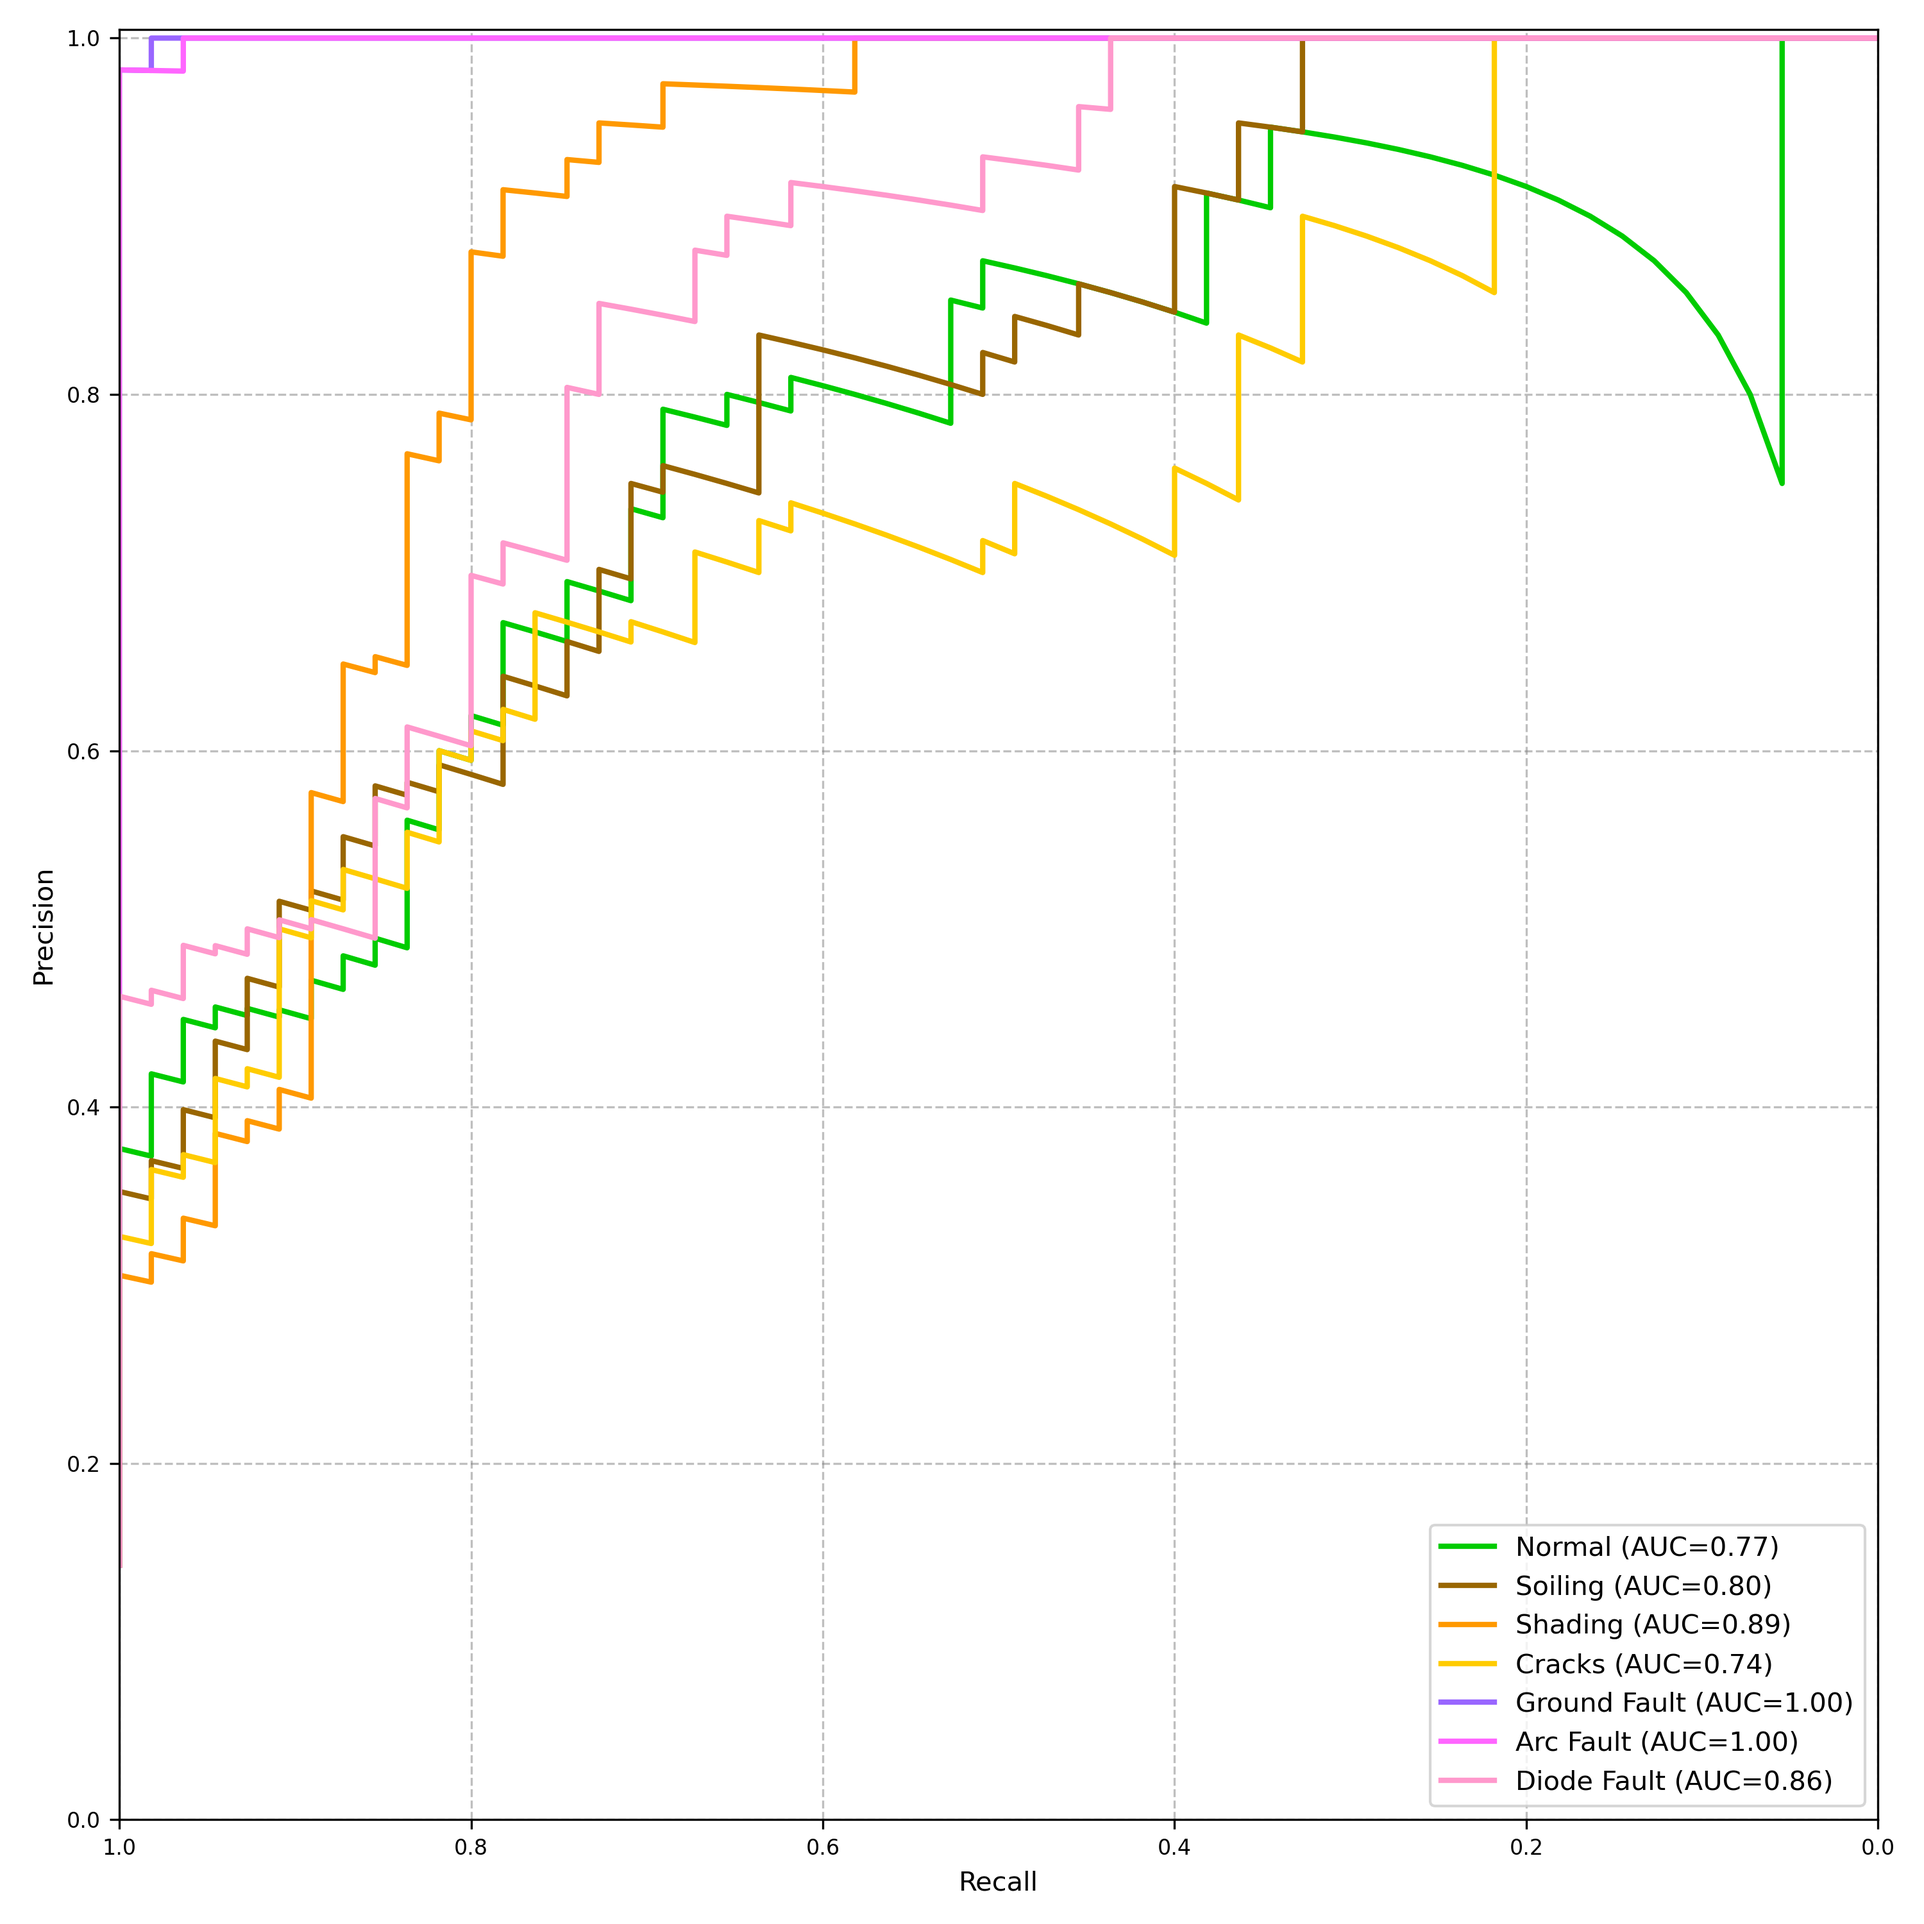
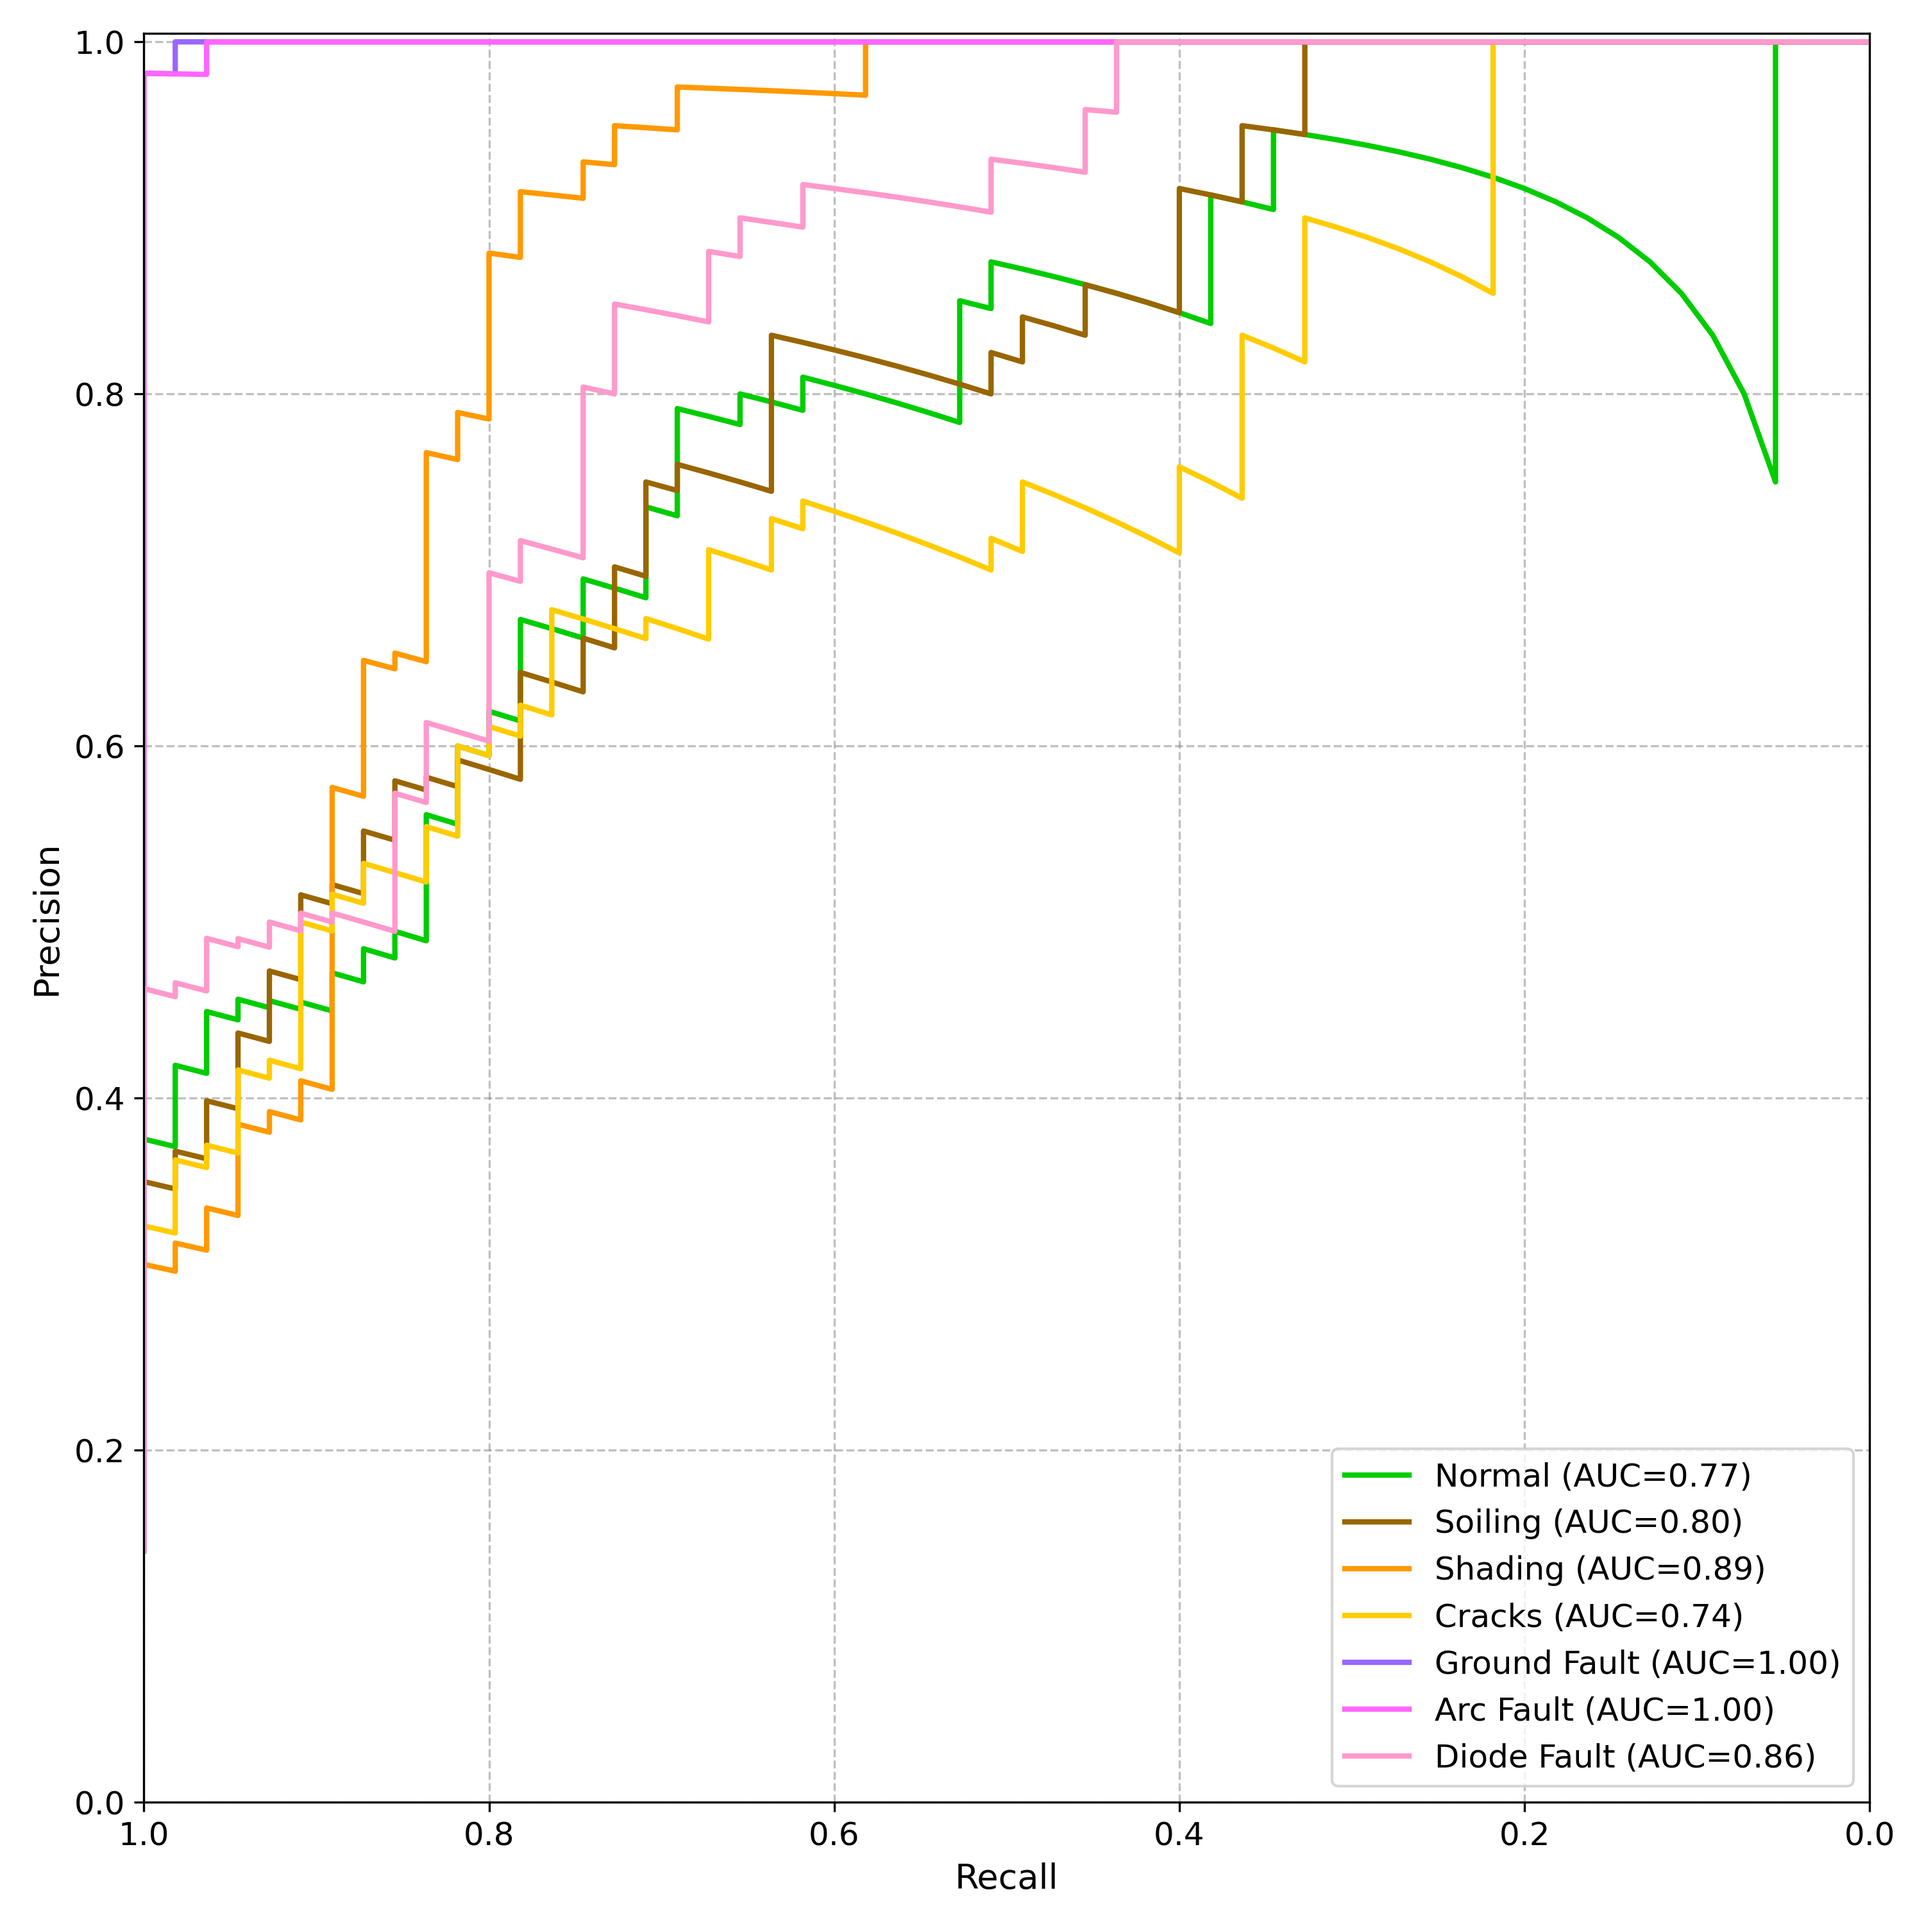
Update

diff --git a/plot_training.py b/plot_training.py
@@ -26,7 +26,7 @@ def plot_confusion_matrix_combined(set_name, season_name, y_true, y_pred, image_
 
     Notes:
         - Each cell shows both count and percentage (Count\n(Percentage%)).
-        - Heatmap uses a white/grey/black colormap, with values ranging from 0% to 100%.
+        - Heatmap uses a Blues colormap.
         - The plot is saved as a high-resolution PNG in the specified folder.
     """
     
@@ -59,35 +59,36 @@ def plot_confusion_matrix_combined(set_name, season_name, y_true, y_pred, image_
         cm_percentage,          # 2D array or DataFrame to visualize as a heatmap
         annot=annotations,      # Custom text annotations inside each cell (showing Count and Percentage)
         fmt='',                 # Format string for annotations
-        cmap=cmap,              # Custom colormap defining color gradient (black → gray → white)
+        cmap=cmap,              # Custom colormap defining color gradient
         xticklabels=classes,    # Labels for the x-axis (Predicted classes)
         yticklabels=classes,    # Labels for the x-axis (Predicted classes)
         cbar=True,              # Display the grayscale bar showing mapping between intensity and percentage values
-        vmin=0,                 # Minimum value for color scale (0% → black)
-        vmax=100,               # Maximum value for color scale (100% → white)
+        vmin=0,                 # Minimum value for color scale)
+        vmax=100,               # Maximum value for color scale 
         linewidths=0.2,         # Width of the grid lines separating cells
         linecolor='black',      # Color of the grid lines separating cells
-        ax=ax                   # Matplotlib Axes object to draw the heatmap on (ensures full control over styling)
+        ax=ax,                  # Matplotlib Axes object to draw the heatmap on (ensures full control over styling)
+        annot_kws={"size": 12}  # Font size for annotations
     )
 
     # Customize the scale bar appearance
     cbar = ax.collections[0].colorbar
     # Set color of tick marks and numeric labels
-    cbar.ax.yaxis.set_tick_params(color='black', labelcolor='black')
+    cbar.ax.yaxis.set_tick_params(labelsize=12, color='black', labelcolor='black')
     # Set the color and label text of the colorbar border
     cbar.outline.set_edgecolor('black')
     # Add label text to the colorbar 
-    cbar.set_label('Percentage (%)', color='black')  # label da colorbar
+    cbar.set_label('Percentage (%)', color='black', fontsize=13)  # label da colorbar
 
     # Set plot title and axis labels
     # ax.set_title(f'Confusion Matrix, {season_name}, {set_name} Set\n(Values: Count over Percentage)',
-    #              color='white', fontsize=14)
-    ax.set_ylabel('True Label', color='black')
-    ax.set_xlabel('Predicted Label', color='black')
+    #              color='black', fontsize=14)
+    ax.set_ylabel('True Label', color='black', fontsize=13)
+    ax.set_xlabel('Predicted Label', color='black', fontsize=13)
 
     # Tick labels
-    plt.setp(ax.get_xticklabels(), fontsize=8, rotation=0, ha='center')
-    plt.setp(ax.get_yticklabels(), fontsize=8, rotation=90)
+    plt.setp(ax.get_xticklabels(), fontsize=12, rotation=0, ha='center')
+    plt.setp(ax.get_yticklabels(), fontsize=12, rotation=90)
     ax.tick_params(axis='x', colors='black')
     ax.tick_params(axis='y', colors='black')
 
@@ -138,20 +139,20 @@ def plot_class_accuracy(class_acc, classes, title, output_file):
     for bar, acc in zip(bars, class_acc):
         height = bar.get_height()
         ax.text(bar.get_x() + bar.get_width() / 2, height + 1, f"{acc:.1f}%",
-                ha='center', va='bottom', color='black', fontsize=10)
+                ha='center', va='bottom', color='black', fontsize=12)
 
     # Calculate mean accuracy and plot a horizontal dashed line
     mean_acc = np.mean(class_acc)
     ax.axhline(mean_acc, color='red', linestyle='--', linewidth=1.2, label=f"Mean accuracy = {mean_acc:.1f}%")
 
     # Set axis labels and title
-    ax.set_xlabel('Label', color='black')
-    ax.set_ylabel('Accuracy (%)', color='black')
+    ax.set_xlabel('Label', color='black', fontsize=12)
+    ax.set_ylabel('Accuracy (%)', color='black', fontsize=12)
     # ax.set_title(title, color='black')
 
     # Customize tick labels
-    plt.setp(ax.get_xticklabels(), fontsize=8, rotation=0, ha='center')
-    plt.setp(ax.get_yticklabels(), fontsize=8, rotation=0)
+    plt.setp(ax.get_xticklabels(), fontsize=12, rotation=0, ha='center')
+    plt.setp(ax.get_yticklabels(), fontsize=12, rotation=0)
     ax.tick_params(axis='x', colors='black')
     ax.tick_params(axis='y', colors='black')
 
@@ -159,7 +160,7 @@ def plot_class_accuracy(class_acc, classes, title, output_file):
     ax.grid(True, color='gray', linestyle='--', linewidth=0.5, axis='y')
 
     # Add legend with automatic positioning
-    legend = ax.legend(fontsize=10, loc='best')
+    legend = ax.legend(fontsize=12, loc='best')
 
     # Adjust layout to avoid overlapping elements
     plt.tight_layout()
@@ -203,13 +204,13 @@ def plot_feature_importance(top_features, season_name, image_file):
 
     # Set title and axis labels
     # ax.set_title(f"Top {TOP_FEATURES} Most Important Features, {season_name}",
-    #              color='white', fontsize=14)
-    ax.set_xlabel('Importance', color='black', fontsize=12)
-    ax.set_ylabel('Features', color='black', fontsize=12)
+    #              color='black', fontsize=14)
+    ax.set_xlabel('Importance', color='black', fontsize=13)
+    ax.set_ylabel('Features', color='black', fontsize=13)
     
     # Configure tick labels
-    plt.xticks(rotation=0, ha='center', color='black', fontsize=8)
-    plt.yticks(color='white', fontsize=10)
+    plt.xticks(rotation=0, ha='center', color='black', fontsize=12)
+    plt.yticks(color='black', fontsize=11)
 
     # Customize tick colors
     ax.tick_params(axis='x', colors='black')
@@ -266,17 +267,17 @@ def plot_auc_recall_vs_precision(y_true, y_scores, class_names, output_file):
                 label=f"{class_names[i]} (AUC={auc_score:.2f})")
 
     # Set labels, title, limits, grid, and legend
-    ax.set_xlabel('Recall', color='black')
-    ax.set_ylabel('Precision', color='black')
-    # ax.set_title('Recall vs Precision Curve Per Class', color='white', fontsize=14)
+    ax.set_xlabel('Recall', color='black', fontsize=13)
+    ax.set_ylabel('Precision', color='black', fontsize=13)
+    # ax.set_title('Recall vs Precision Curve Per Class', color='black', fontsize=14)
     ax.tick_params(axis='x', colors='black')
     ax.tick_params(axis='y', colors='black')
     ax.set_xlim(1, 0)
     ax.set_ylim(0, 1.005)
-    plt.xticks(rotation=0, ha='center', color='black', fontsize=8)
-    plt.yticks(color='black', fontsize=8)
+    plt.xticks(rotation=0, ha='center', color='black', fontsize=12)
+    plt.yticks(color='black', fontsize=12)
     ax.grid(True, linestyle='--', color='gray', alpha=0.5)
-    ax.legend(fontsize=10, loc='lower right')
+    ax.legend(fontsize=12, loc='lower right')
 
     # Adjust layout and save figure
     plt.tight_layout()
@@ -328,14 +329,14 @@ def plot_fp_tp_curve(y_true, y_scores, class_names, output_file):
     ax.plot([0, 1], [0, 1], 'w--', lw=1, label='Random Guess')
     ax.set_xlim([0.0, 1.0])
     ax.set_ylim([0.0, 1.005])
-    plt.xticks(rotation=0, ha='center', color='black', fontsize=8)
-    plt.yticks(color='black', fontsize=8)
-    ax.set_xlabel('False Positive Rate (FP)', color='black', fontsize=12)
-    ax.set_ylabel('True Positive Rate (TP)', color='black', fontsize=12)
-    # ax.set_title('True Positive vs False Positive Per Class', color='white', fontsize=14)
+    plt.xticks(rotation=0, ha='center', color='black', fontsize=12)
+    plt.yticks(color='black', fontsize=12)
+    ax.set_xlabel('False Positive Rate (FP)', color='black', fontsize=13)
+    ax.set_ylabel('True Positive Rate (TP)', color='black', fontsize=13)
+    # ax.set_title('True Positive vs False Positive Per Class', color='black', fontsize=14)
     ax.tick_params(axis='x', colors='black')
     ax.tick_params(axis='y', colors='black')
-    ax.legend(fontsize=10)
+    ax.legend(fontsize=12, loc='lower right')
     ax.grid(True, linestyle='--', color='gray', alpha=0.5)
 
     # Save and close
@@ -372,14 +373,14 @@ def plot_class_accuracy_ci(class_acc, ci_lower, ci_upper, classes, title, output
     # Compute CI ranges
     ci_diff = np.array(ci_upper) - np.array(ci_lower)
 
-    # Plot bars with white error bars (CI)
+    # Plot bars with error bars (CI)
     bars = ax.bar(
         class_labels,
         class_acc,
         color=colors,
         yerr=[class_acc - ci_lower, ci_upper - class_acc],
         capsize=5,
-        ecolor='black'  # black error bars
+        ecolor='black',
     )
     
     # Add text showing CI width above bars
@@ -392,17 +393,17 @@ def plot_class_accuracy_ci(class_acc, ci_lower, ci_upper, classes, title, output
             diff_text,
             ha='center',
             va='bottom',
-            fontsize=8,
+            fontsize=12,
             color='black',
         )
 
     # Labels, grid, and theme ticks
-    ax.set_xlabel('Label', color='black')
-    ax.set_ylabel('Accuracy (%)', color='black')
+    ax.set_xlabel('Label', color='black', fontsize=13)
+    ax.set_ylabel('Accuracy (%)', color='black', fontsize=13)
     # ax.set_title(title, color='black')
     ax.grid(True, color='gray', linestyle='--', linewidth=0.5, axis='y')
-    plt.setp(ax.get_xticklabels(), fontsize=8, rotation=0, ha='center')
-    plt.setp(ax.get_yticklabels(), fontsize=8, rotation=0)
+    plt.setp(ax.get_xticklabels(), fontsize=12, rotation=0, ha='center')
+    plt.setp(ax.get_yticklabels(), fontsize=12, rotation=0)
     ax.tick_params(axis='x', colors='black')
     ax.tick_params(axis='y', colors='black')
     
